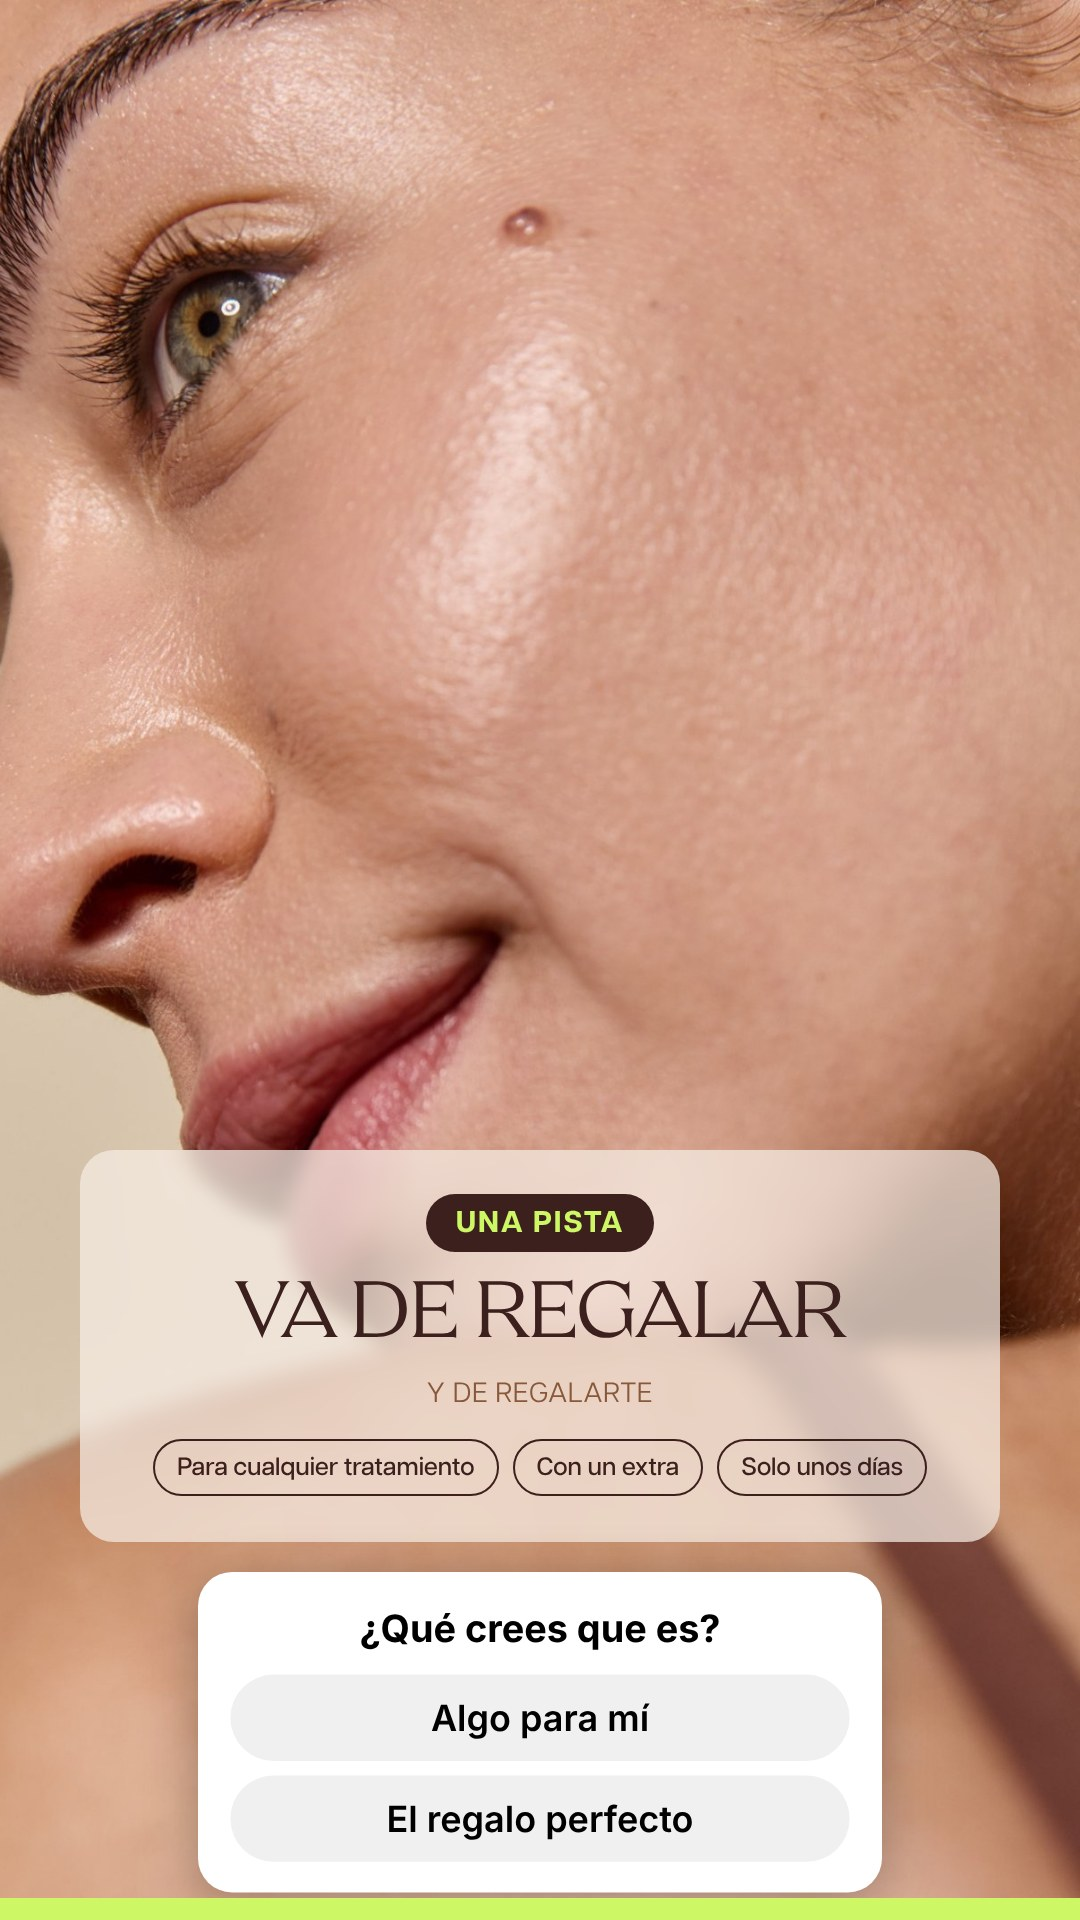
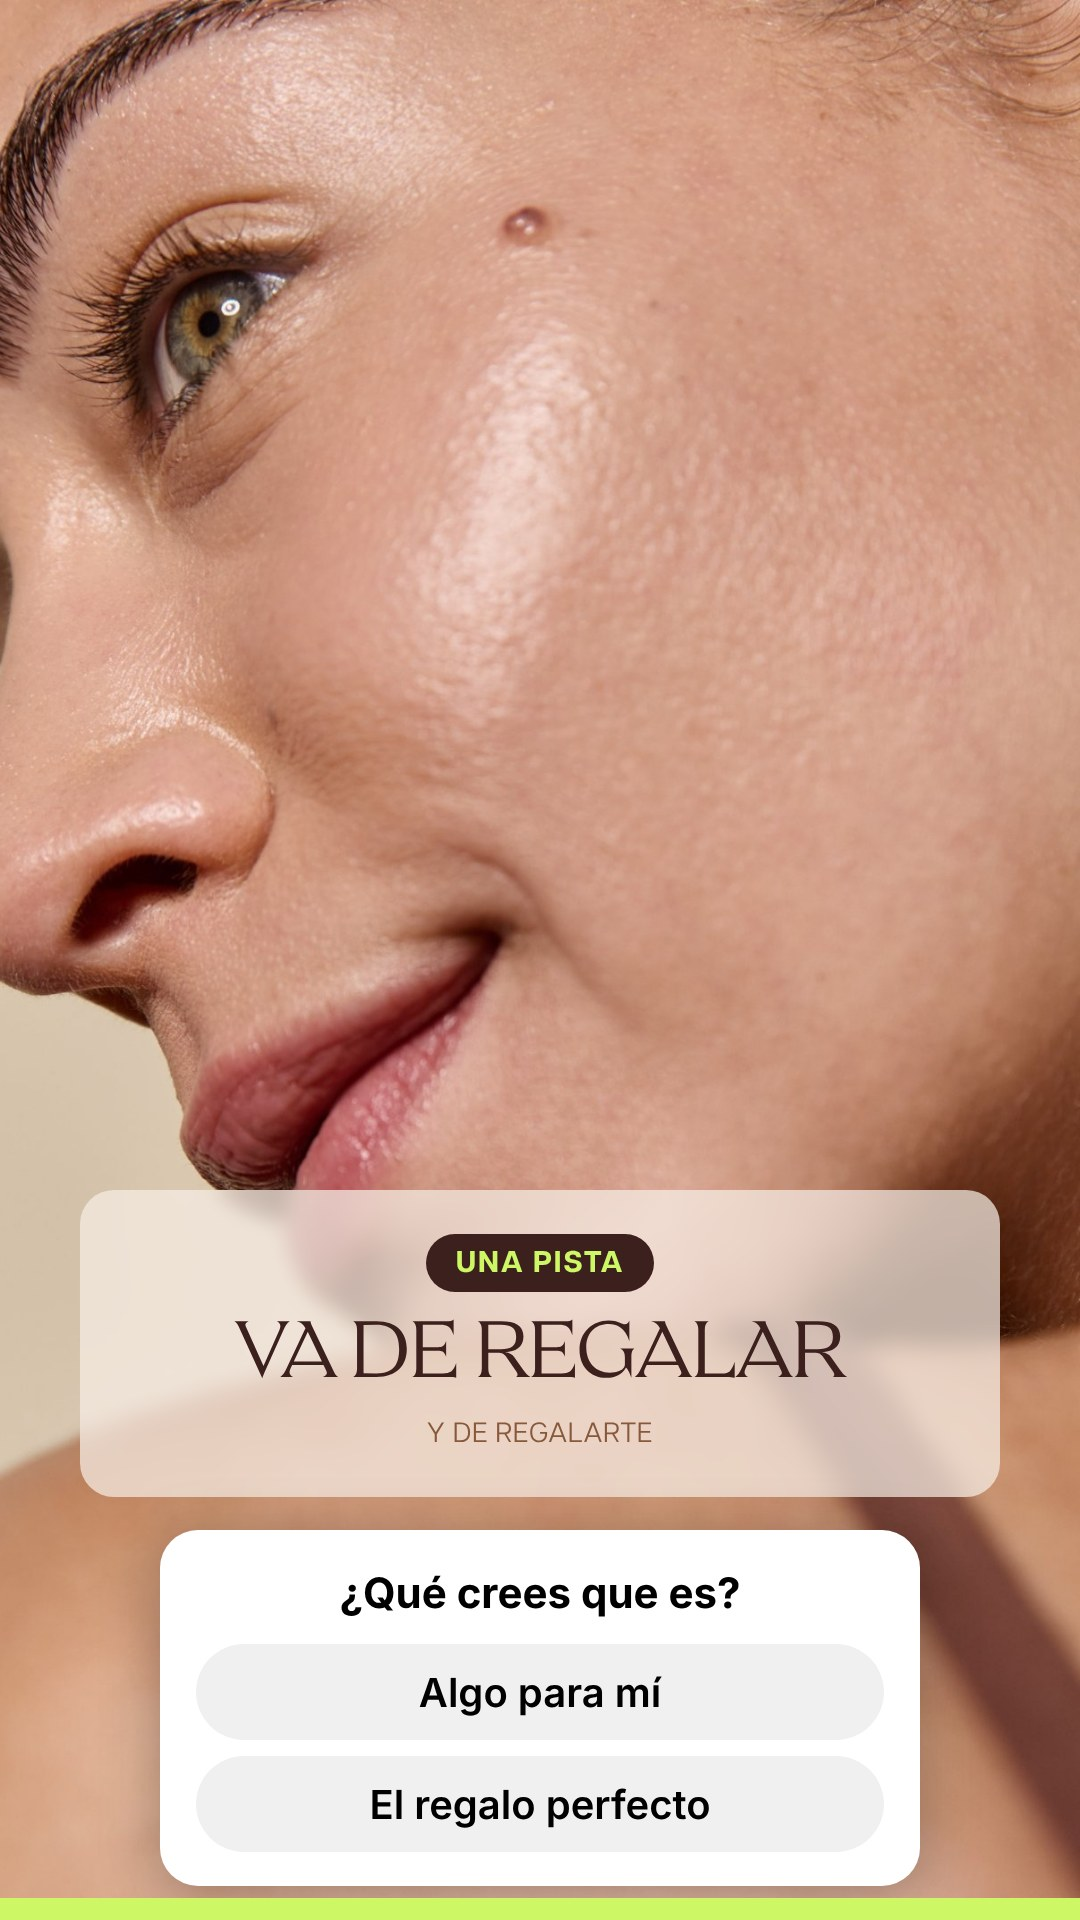
Lunes 16: story 2 del teaser vuelve a la versión anterior
Claude-Session: https://claude.ai/code/session_01JZ4qrB4vBJCM1LriYw1bZU

Changed region(s): [[0.0611, 0.5938, 0.9472, 1.0]]

diff --git a/public/pitch/skin-laundry-calendario/noviembre/index.html b/public/pitch/skin-laundry-calendario/noviembre/index.html
@@ -886,8 +886,8 @@ const MOSTRAR_STORIES = false;
 const STORIES = {
   /* Pedidas por el cliente el mismo día: teaser del Black Friday (sin enseñar la oferta, que se desvela el 18) */
   16: { titulo:"Teaser Black Friday", hora:"Hoy", estado:"listo",
-        imgs:["/pitch/skin-laundry-calendario/noviembre/img/s16_1.jpg?v=11161302","/pitch/skin-laundry-calendario/noviembre/img/s16_2.jpg?v=11161305","/pitch/skin-laundry-calendario/noviembre/img/s16_3.jpg?v=11161302"],
-        items:["Algo bueno está por llegar · lo contamos el miércoles · deslizador de emoji: ¿cuántas ganas tienes? 😍","Una pista: va de regalar, y de regalarte · para cualquier tratamiento, con un extra, solo unos días · encuesta: ¿qué crees que es? Algo para mí / El regalo perfecto","Cuenta atrás · sticker de cuenta atrás hasta el miércoles 18 a las 19:30 (sale el post) · activa el recordatorio"] },
+        imgs:["/pitch/skin-laundry-calendario/noviembre/img/s16_1.jpg?v=11161302","/pitch/skin-laundry-calendario/noviembre/img/s16_2.jpg?v=11161306","/pitch/skin-laundry-calendario/noviembre/img/s16_3.jpg?v=11161302"],
+        items:["Algo bueno está por llegar · lo contamos el miércoles · deslizador de emoji: ¿cuántas ganas tienes? 😍","Una pista: va de regalar, y de regalarte · encuesta: ¿qué crees que es? Algo para mí / El regalo perfecto","Cuenta atrás · sticker de cuenta atrás hasta el miércoles 18 a las 19:30 (sale el post) · activa el recordatorio"] },
   /* Pack que iba a salir el miércoles 11 y no se publicó: pasa al viernes 13 */
   13: { titulo:"Pack de stories", hora:"12:00h", estado:"listo",
         imgs:["/pitch/skin-laundry-calendario/noviembre/img/s13_1.jpg?v=11120220","/pitch/skin-laundry-calendario/noviembre/img/s13_2.jpg?v=11120220","/pitch/skin-laundry-calendario/noviembre/img/s13_3.jpg?v=11121312"],
